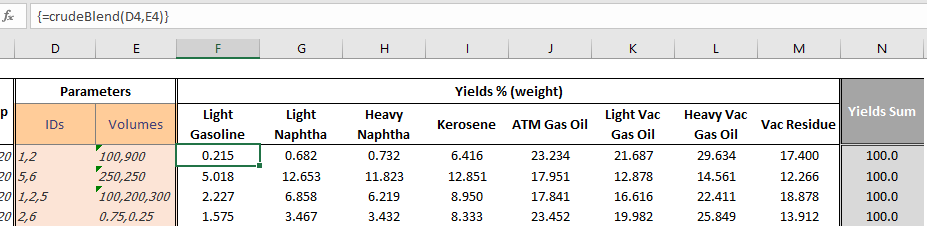
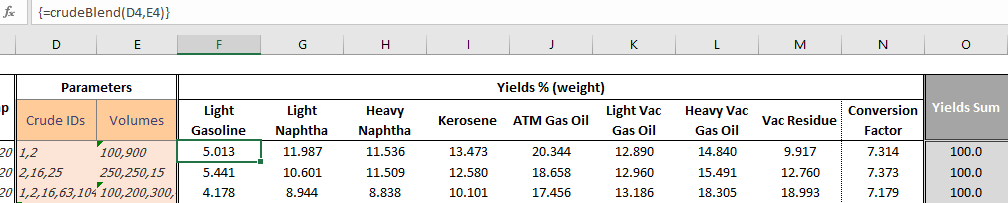
add: Documentation of added result, Conversion Factor

Changed region(s): [[0.0, 0.3251, 1.0, 1.0], [0.0, 0.1773, 1.0, 0.2956], [0.0, 0.0, 1.0, 0.1478]]

diff --git a/Excel_VBA/documentation_VBA.md b/Excel_VBA/documentation_VBA.md
@@ -7,14 +7,12 @@ This documentation describes the required steps to create a function in Excel th
 ## Requirements
 There are some extra steps required when working with VBA to allow it to accept the following:
 1. Send/receive URL REQUEST
-1. Work with dictionary (key-value pairs)
 1. Parse JSON (additional open-source module)
 
 #### Activate native Tools
 Under the VBA editor: `Tools` > `References`
 Make sure to check the following *Available References*:
 + `Microsoft XML, v6.0` (send URL request)
-+ `Microsfot Scripting Runtime` (work with dictionary)
 
 #### Add external Module
 In order to parse JSON, it is required to install an additional open-source module: [VBA-JSON](https://github.com/VBA-tools/VBA-JSON)
